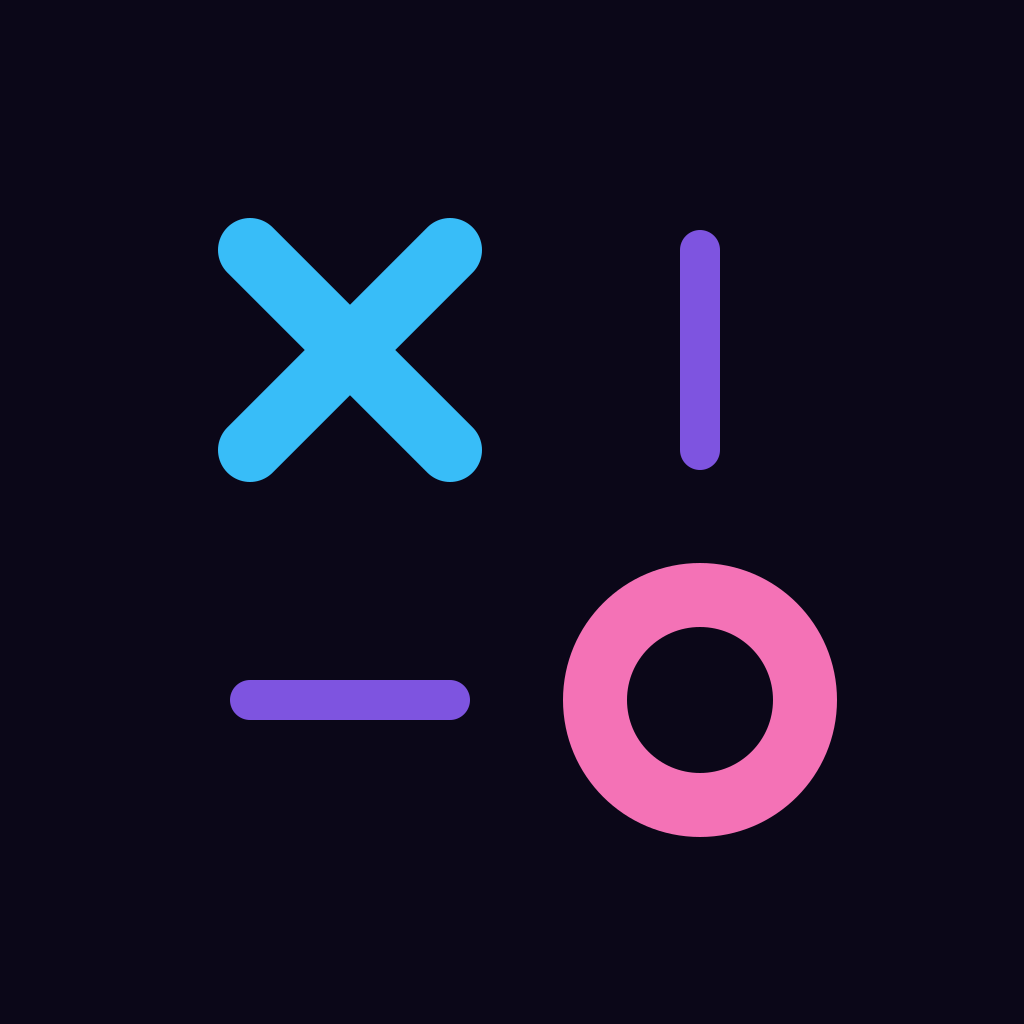
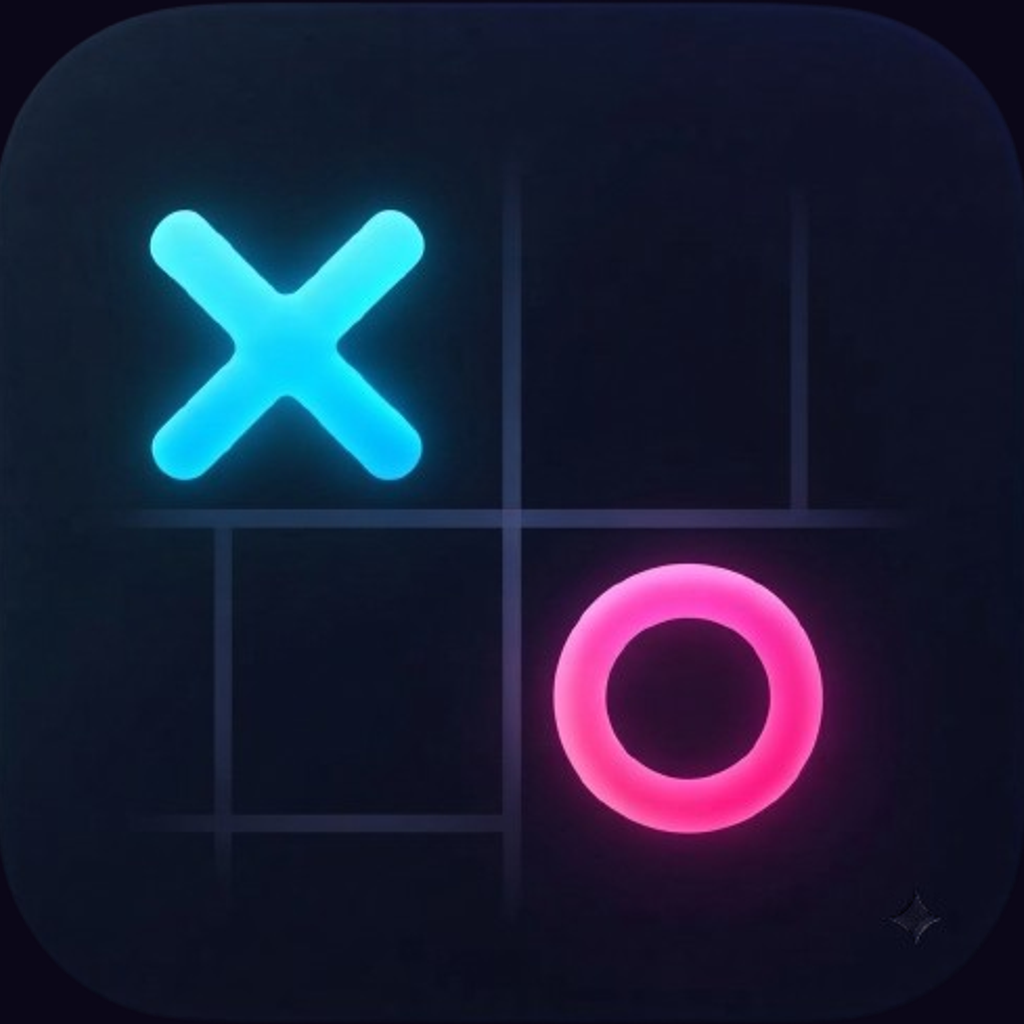
Refactor code structure for improved readability and maintainability

diff --git a/mobile/src/screens/onboarding/SplashScreen.tsx b/mobile/src/screens/onboarding/SplashScreen.tsx
@@ -1,8 +1,8 @@
 import React, { useEffect, useRef, useState } from 'react';
-import { StyleSheet, Text, View } from 'react-native';
+import { Image, StyleSheet, Text, View } from 'react-native';
 import { LinearGradient } from 'expo-linear-gradient';
 import Animated, { Easing, useAnimatedStyle, useSharedValue, withTiming } from 'react-native-reanimated';
-import { SymbolMark } from '../../components/game/SymbolMark';
+const appLogo = require('../../assets/images/app-logo.png');
 import { fonts, type } from '../../design-system/typography';
 import { useTheme } from '../../hooks/useTheme';
 import { useAppNav } from '../../navigation/useAppNav';
@@ -40,8 +40,7 @@ export const SplashScreen: React.FC<RootScreenProps<'splash'>> = () => {
       <View />
       <View style={styles.center}>
         <View style={[styles.logo, { backgroundColor: c.bgCard, borderColor: c.accent + '80', shadowColor: c.accent }]}>
-          <SymbolMark value="X" size="lg" />
-          <SymbolMark value="O" size="lg" />
+          <Image source={appLogo} style={{ width: '100%', height: '100%' }} />
         </View>
         <View style={{ alignItems: 'center', gap: 6 }}>
           <Text style={[styles.title, { color: c.text }]}>Tic Tac Toe</Text>
@@ -62,7 +61,7 @@ export const SplashScreen: React.FC<RootScreenProps<'splash'>> = () => {
 const styles = StyleSheet.create({
   root: { flex: 1, justifyContent: 'space-between', alignItems: 'center', paddingHorizontal: 24, paddingVertical: 64 },
   center: { alignItems: 'center', gap: 24 },
-  logo: { width: 112, height: 112, borderRadius: 24, borderWidth: 1, flexDirection: 'row', alignItems: 'center', justifyContent: 'center', gap: 8, shadowOpacity: 0.3, shadowRadius: 30, shadowOffset: { width: 0, height: 0 }, elevation: 8 },
+  logo: { width: 112, height: 112, borderRadius: 24, borderWidth: 1, overflow: 'hidden', shadowOpacity: 0.3, shadowRadius: 30, shadowOffset: { width: 0, height: 0 }, elevation: 8 },
   title: { fontFamily: fonts.display.extrabold, fontSize: 30, lineHeight: 36 },
   footer: { width: '100%', alignItems: 'center', gap: 6 },
   track: { width: '100%', height: 6, borderRadius: 3, overflow: 'hidden', marginTop: 10 },

diff --git a/mobile/src/screens/onboarding/WelcomeScreen.tsx b/mobile/src/screens/onboarding/WelcomeScreen.tsx
@@ -1,10 +1,10 @@
 import React, { useState } from 'react';
-import { Platform, StyleSheet, Text, View } from 'react-native';
+import { Image, Platform, StyleSheet, Text, View } from 'react-native';
 import { Globe, Mail, Shield } from 'lucide-react-native';
 import { AppButton } from '../../components/common/AppButton';
 import { Pressy } from '../../components/common/Pressy';
 import { Screen } from '../../components/common/Screen';
-import { SymbolMark } from '../../components/game/SymbolMark';
+const appLogo = require('../../assets/images/app-logo.png');
 import { fonts, type } from '../../design-system/typography';
 import { useTheme } from '../../hooks/useTheme';
 import { useAppNav } from '../../navigation/useAppNav';
@@ -39,8 +39,7 @@ export const WelcomeScreen: React.FC<RootScreenProps<'welcome'>> = () => {
     <Screen testID="welcome-screen" contentStyle={{ flexGrow: 1, justifyContent: 'space-between' }}>
       <View style={styles.hero}>
         <View style={[styles.logo, { backgroundColor: c.bgCard, borderColor: c.border }]}>
-          <SymbolMark value="X" size="md" />
-          <SymbolMark value="O" size="md" />
+          <Image source={appLogo} style={{ width: '100%', height: '100%' }} />
         </View>
         <Text style={[styles.title, { color: c.text }]}>Welcome to Tic Tac Toe</Text>
         <Text style={[type.body, { color: c.textSecondary, textAlign: 'center' }]}>Sign in to sync rankings, friends, and rewards.</Text>
@@ -74,7 +73,7 @@ export const WelcomeScreen: React.FC<RootScreenProps<'welcome'>> = () => {
 
 const styles = StyleSheet.create({
   hero: { alignItems: 'center', gap: 12, paddingTop: 24 },
-  logo: { width: 80, height: 80, borderRadius: 24, borderWidth: 1, flexDirection: 'row', alignItems: 'center', justifyContent: 'center', gap: 6 },
+  logo: { width: 80, height: 80, borderRadius: 24, borderWidth: 1, overflow: 'hidden' },
   title: { fontFamily: fonts.display.bold, fontSize: 24, lineHeight: 30, textAlign: 'center' },
   or: { flexDirection: 'row', alignItems: 'center', gap: 12, paddingVertical: 4 },
   line: { flex: 1, height: StyleSheet.hairlineWidth },

diff --git a/mobile/app.config.ts b/mobile/app.config.ts
@@ -4,8 +4,8 @@ import type { ConfigContext, ExpoConfig } from 'expo/config';
  * Expo config. Secrets never live here: only public, per-build identifiers come from the environment
  * (EAS build profiles in eas.json set them; see .env.example).
  */
-const IOS_BUNDLE_ID = process.env.IOS_BUNDLE_ID ?? 'com.squillion.tictactoe';
-const ANDROID_PACKAGE = process.env.ANDROID_PACKAGE ?? 'com.squillion.tictactoe';
+const IOS_BUNDLE_ID = process.env.IOS_BUNDLE_ID ?? 'com.tictactoe.game';
+const ANDROID_PACKAGE = process.env.ANDROID_PACKAGE ?? 'com.tictactoe.game';
 const LINK_HOST = process.env.EXPO_PUBLIC_LINK_HOST ?? ''; // e.g. play.example.com (https app links for invitations)
 const GOOGLE_IOS_URL_SCHEME = process.env.GOOGLE_IOS_URL_SCHEME ?? ''; // reversed iOS client id: com.googleusercontent.apps.XXXX
 

diff --git a/mobile/docs/IOS_RELEASE.md b/mobile/docs/IOS_RELEASE.md
@@ -6,7 +6,7 @@ surface signing/capability issues that need fixing on your Apple account.
 
 ## One-time setup
 
-1. Apple Developer Program membership + an App Store Connect app record with bundle id `com.squillion.tictactoe`
+1. Apple Developer Program membership + an App Store Connect app record with bundle id `com.tictactoe.game`
    (change `IOS_BUNDLE_ID` in `.env` / EAS env if you use your own).
 2. `npm i -g eas-cli` (or `npx eas-cli@latest`), `eas login`, `eas init` (creates the EAS project id and links `app.config.ts`).
 3. Replace the placeholders in `eas.json`: `EXPO_PUBLIC_API_URL` per profile (HTTPS for `production`) and
